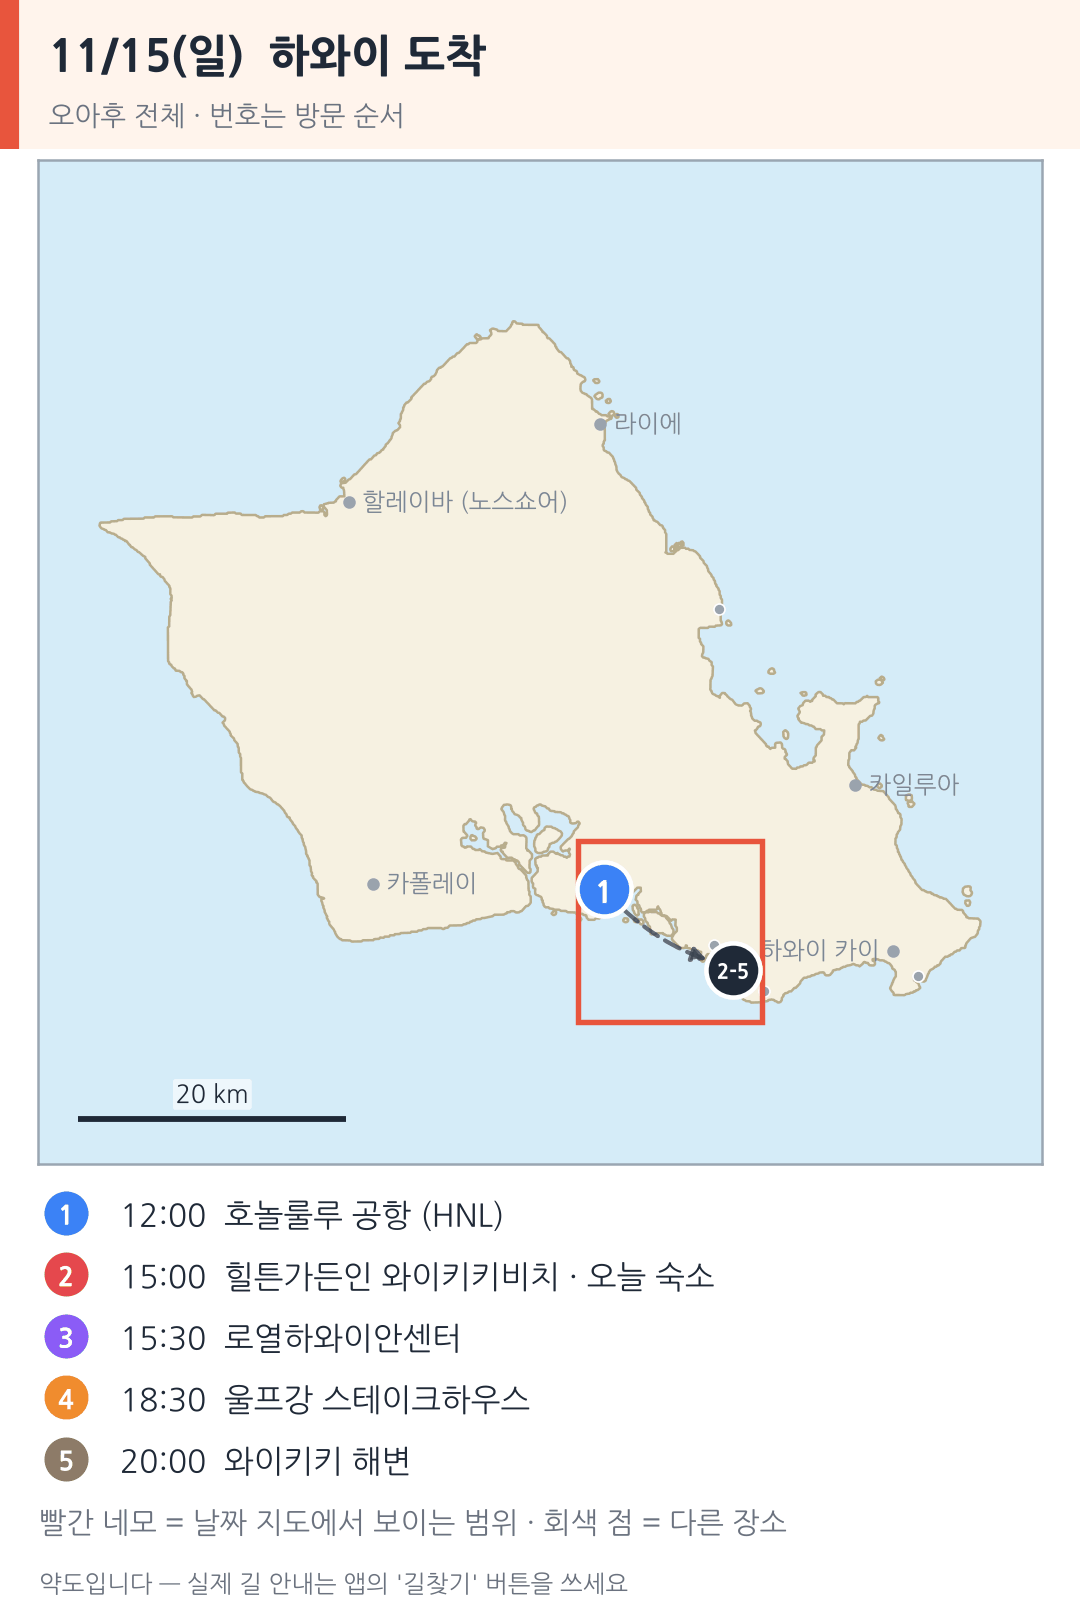
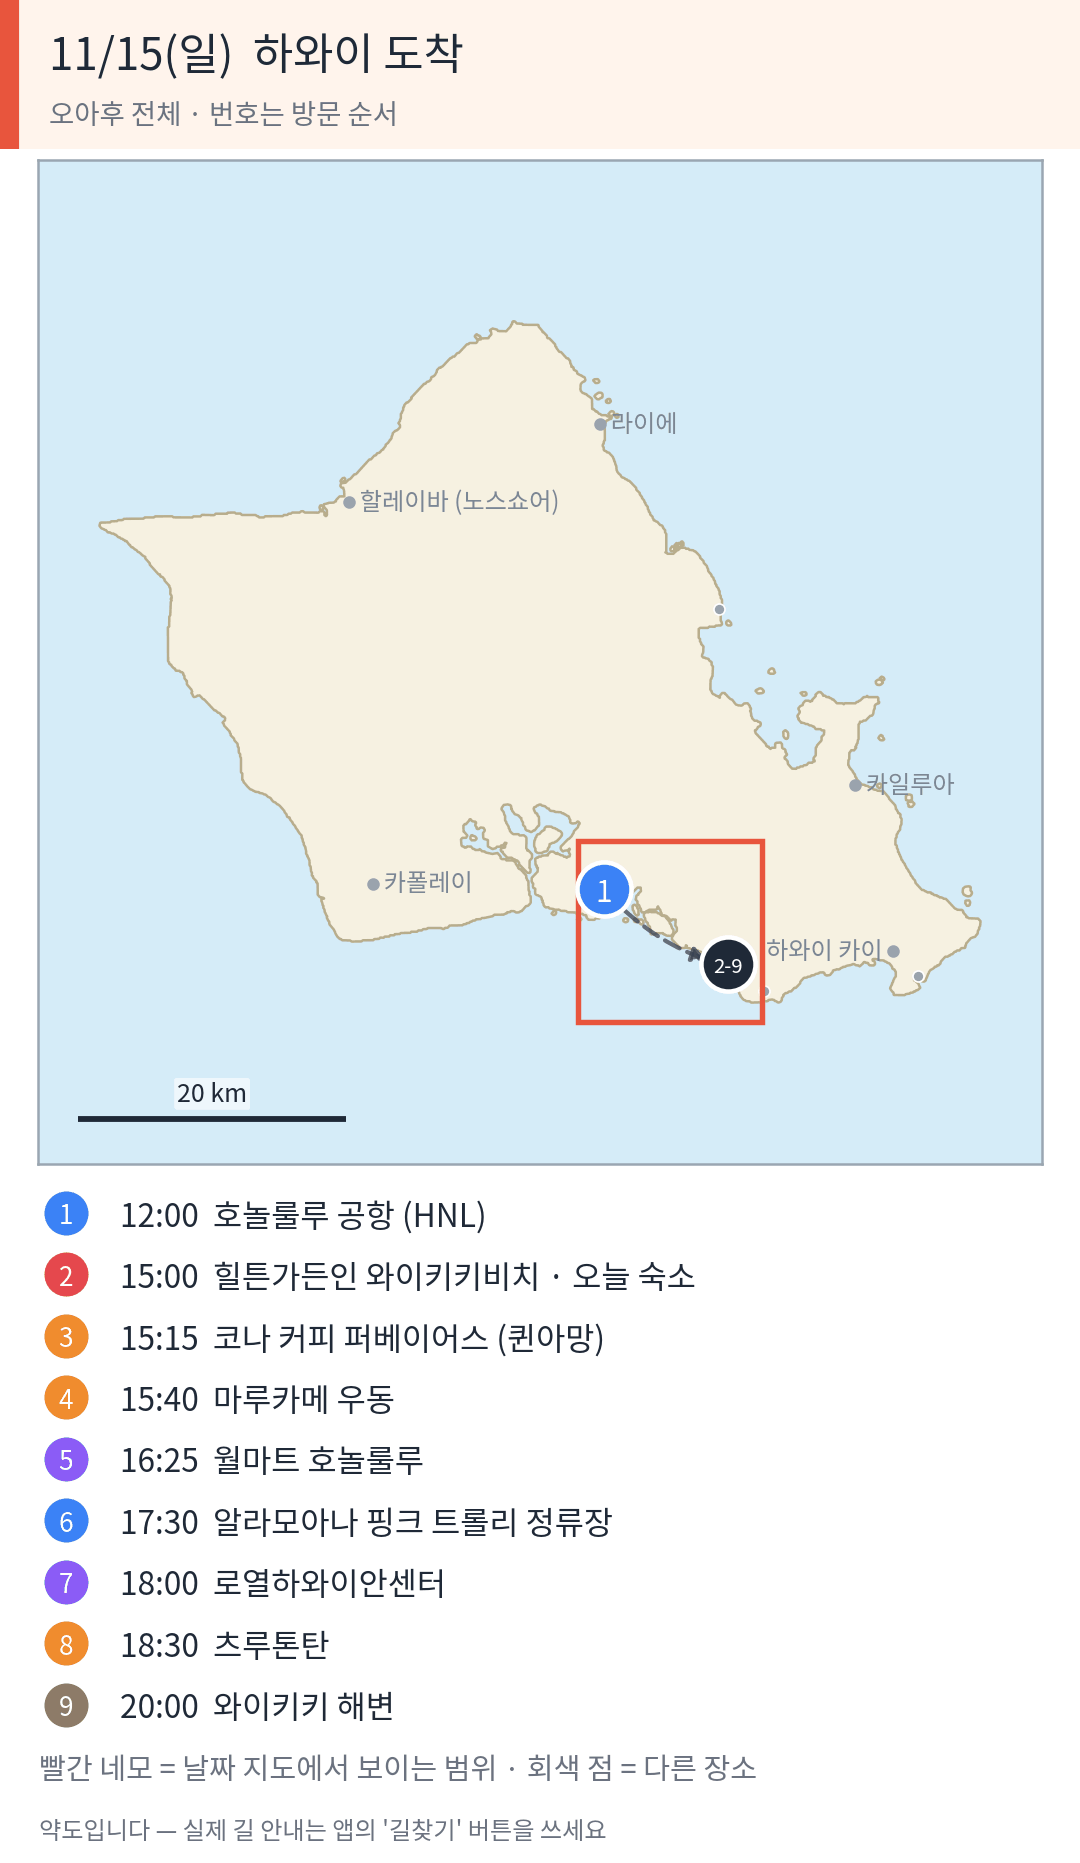
Update Honolulu arrival day itinerary

Changed region(s): [[0.0306, 0.1546, 0.9778, 0.9895], [0.0, 0.0, 0.9778, 0.1237], [0.4583, 0.2474, 0.5194, 0.2783]]

diff --git a/sw.js b/sw.js
@@ -3,7 +3,7 @@
 // (파일을 고친 뒤 `node tools/build-precache.mjs` 를 실행하면 버전과 목록이 바뀐다 — 직접 고치지 말 것).
 
 /* PRECACHE:BEGIN */
-const VERSION = '298c-5e29';
+const VERSION = '054f-b4d0';
 const FILES = [
   ['index.html', '74b53b86'],
   ['manifest.webmanifest', '433937d9'],
@@ -33,17 +33,17 @@ const FILES = [
   ['js/wallet.js', '6127bc56'],
   ['js/weather.js', 'f8590ea6'],
   ['vendor/qrcode.js', 'ea91d711'],
-  ['data/checklists.json', '8d1b7d0e'],
+  ['data/checklists.json', 'e91c199f'],
   ['data/ideas.json', 'c745e624'],
-  ['data/maps.json', 'c05ebbe9'],
+  ['data/maps.json', '895cd8c4'],
   ['data/photos.json', '203050d9'],
   ['data/phrases.json', '222339e8'],
   ['data/secret.enc', 'b6362c2a'],
-  ['data/trip.json', '6a66edfd'],
+  ['data/trip.json', 'a0c8d1d2'],
   ['data/videos.json', 'f543b457'],
   ['maps/big-island.png', 'a8e3a173'],
-  ['maps/day-1115-wide.png', '580b28ac'],
-  ['maps/day-1115.png', '32cf6893'],
+  ['maps/day-1115-wide.png', 'fcf13574'],
+  ['maps/day-1115.png', '5308075f'],
   ['maps/day-1116-wide.png', '0dbb55aa'],
   ['maps/day-1116.png', 'ed951678'],
   ['maps/day-1117-wide.png', '75e6374c'],
@@ -69,7 +69,7 @@ const FILES = [
   ['maps/day-1127-wide.png', '6a1799ce'],
   ['maps/day-1127.png', 'b8867e97'],
   ['maps/korea-hawaii.png', '609fac3b'],
-  ['maps/oahu.png', '8f3a52cc'],
+  ['maps/oahu.png', '4d31d88c'],
   ['maps/overview-hawaii.png', '736732d5'],
   ['photos/ai-acai.jpg', 'a4e29d95'],
   ['photos/ai-coffee-farm.jpg', 'cc47d4a0'],
